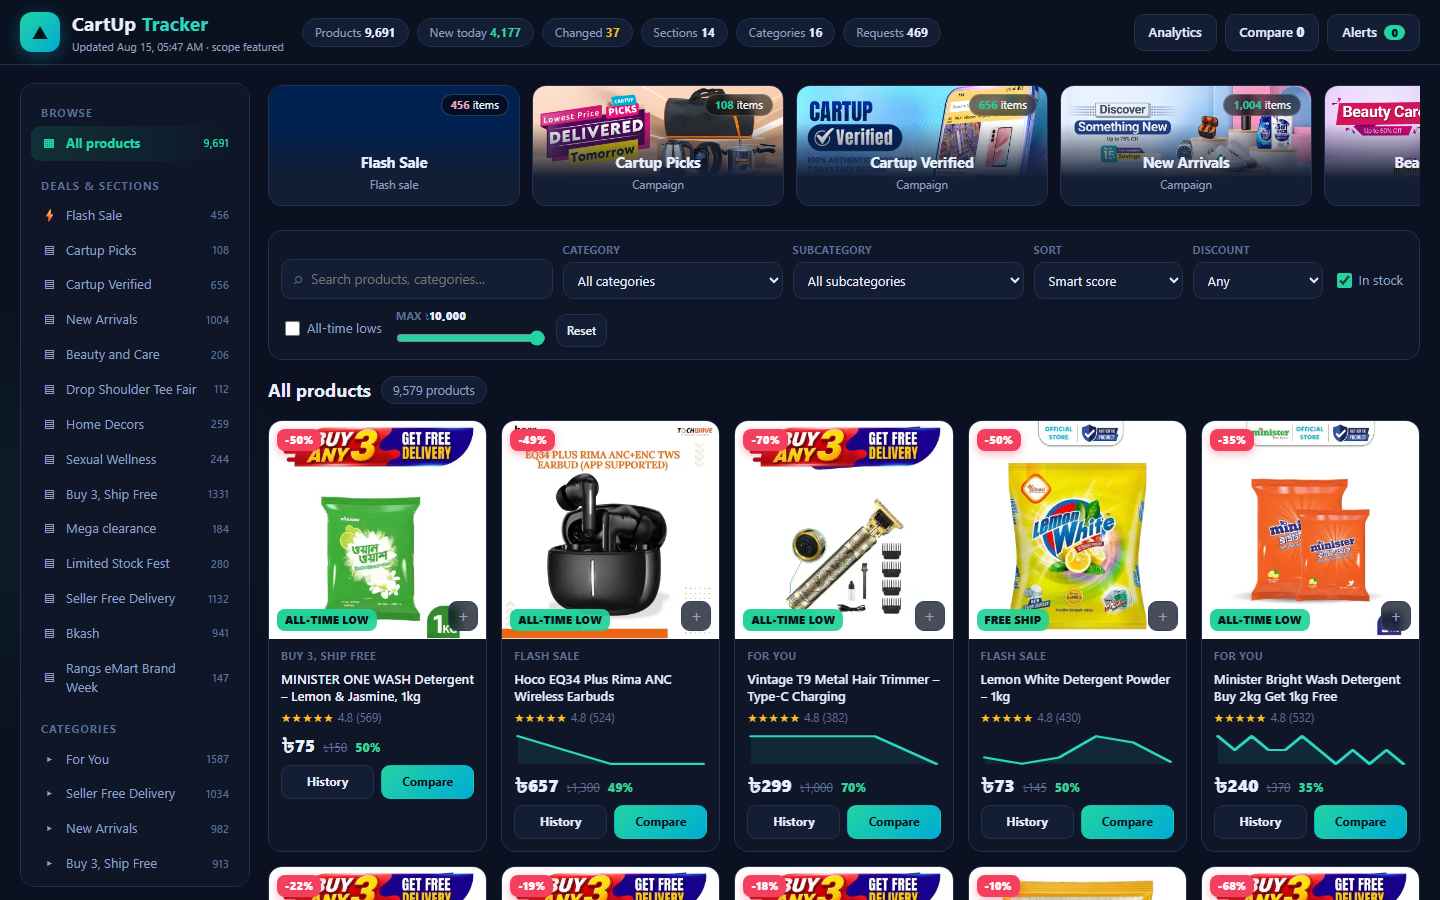
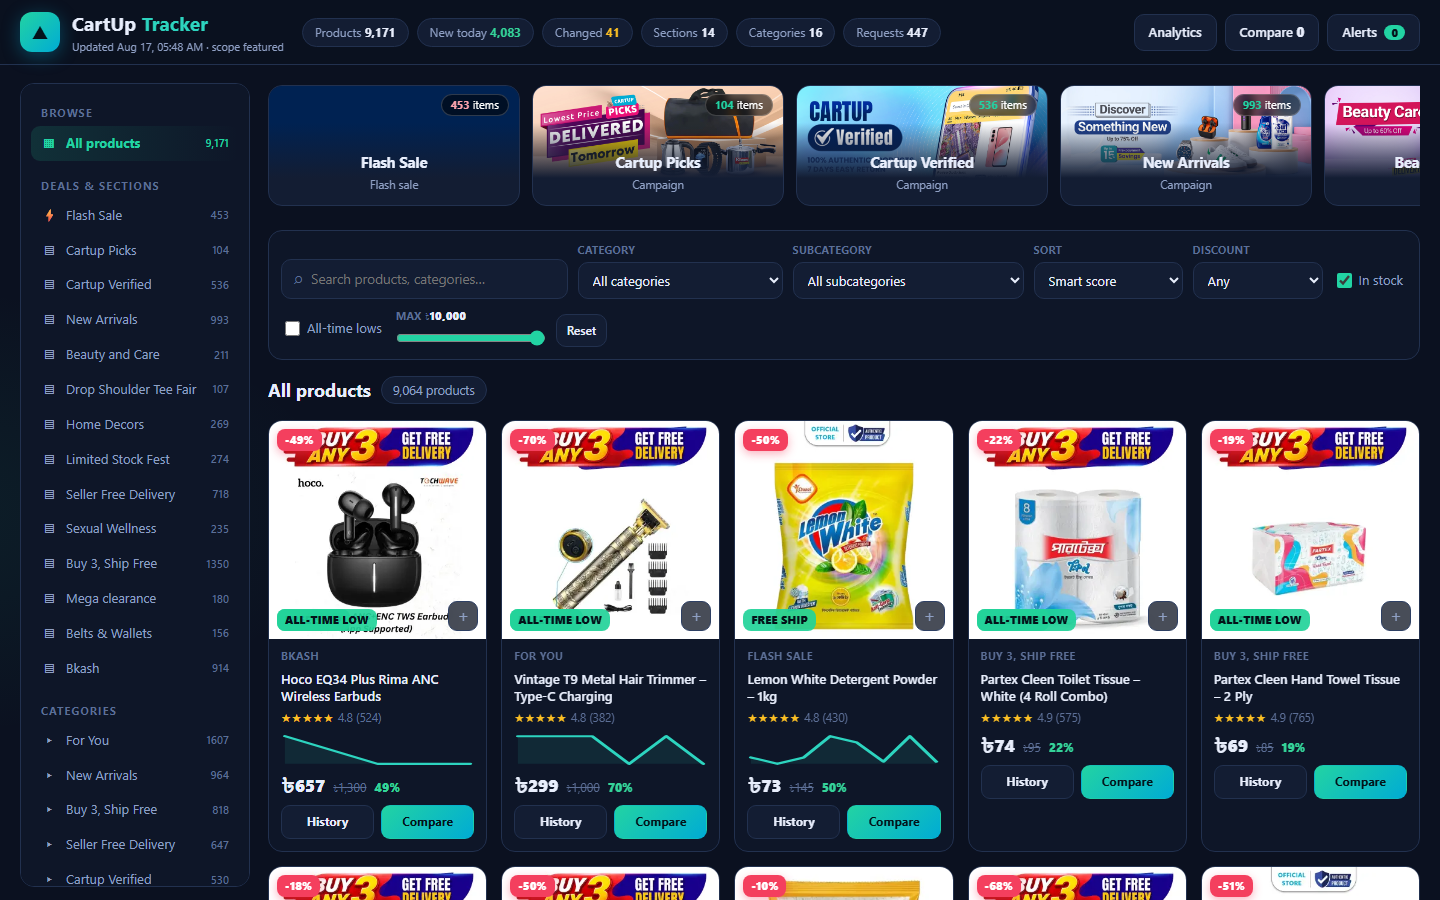
fix: export fresh price history data & add dashboard feature screenshots to README

diff --git a/README.md b/README.md
@@ -1,205 +1,39 @@
-# 🛒 CARTup Analytics & Daily Price Tracker
+# CartUp Analytics — Price Tracker & Intelligence Dashboard
 
-> **Automated, Pure-Python API Scraper, Daily Price Snapshot Pipeline & High-Performance Analytics Dashboard for CartUp Bangladesh.**
-
-[![Live Demo](https://img.shields.io/badge/Live%20Demo-GitHub%20Pages-0099ff?style=for-the-badge&logo=github)](https://ranehal.github.io/CARTup-analytics/)
-[![Python Standard Library](https://img.shields.io/badge/Python-3.9%2B%20(stdlib)-3776AB?style=for-the-badge&logo=python&logoColor=white)](https://www.python.org/)
-[![JavaScript ES6+](https://img.shields.io/badge/JavaScript-ES6%2B-F7DF1E?style=for-the-badge&logo=javascript&logoColor=black)](https://developer.mozilla.org/)
-[![License: MIT](https://img.shields.io/badge/License-MIT-yellow.svg?style=for-the-badge)](LICENSE)
+Real-time price tracker, catalog analyzer, and historical price intelligence dashboard for CartUp Bangladesh.
 
 ---
 
-## 📌 Executive Summary
+## 🌐 Dashboard & Live Preview
 
-**CARTup Analytics** is an end-to-end price monitoring, market analytics, and deal discovery engine engineered for [CartUp Bangladesh](https://www.cartup.com) (`api.cartup.com`). 
-
-The platform reverse-engineers CartUp's mobile app security headers (`sxsrf`), executes concurrent API harvesting without third-party dependencies, logs zero-duplication price history deltas, and renders an interactive web application featuring sparklines, price drop alerts, section cards, and category analytics.
+![Dashboard Preview](screenshots/dashboard.png)
 
 ---
 
-## 🚀 Key Features
+## 📈 Price History & Historical Analytics
 
-- **🔐 Cryptographic Handshake & Auth Derivation**: Implements automatic handling of CartUp's double Base64 `sxsrf` security token derived dynamically from Cloudflare `cf-ray-status-id-tn` response headers.
-- **⚡ Zero-Dependency Scraper Core**: Built strictly using Python standard libraries (`urllib`, `gzip`, `base64`, `json`), requiring zero external `pip` packages.
-- **📈 Efficient Delta Price History**: Appends `YYYY-MM-DD:price` records only when prices change, keeping `data/history.json` lightweight while storing daily snapshots in `data/daily/`.
-- **🌳 Complete Catalog Hierarchy**: Navigates 3 catalog depth levels across 16 top categories, 169 mid-level categories, and 1,232 leaf categories (~600k potential SKUs).
-- **📊 Sparklines & Price Target Alerts**: Dynamic SVG sparklines per card, 30D / 90D / 1Y / All price charts, custom price target alerts saved in `localStorage`, and section strip views (Flash Sales, Mega Offers).
+![Price History & Charts](screenshots/price_history.png)
 
 ---
 
-## 📸 Screenshots
+## 🔍 Features & Interactive Exploration
 
-> Captured from a live localhost run of the dashboard.
-
-| Dashboard |
-| :---: |
-| ![CartUp Analytics Dashboard](screenshots/dashboard.png) |
+![Features & Category View](screenshots/features.png)
 
 ---
 
-## 🏗 System Architecture
+## 🛠 Features & Architecture
 
-```mermaid
-sequenceDiagram
-    autonumber
-    participant Scraper as Python Scraper CLI (scraper.py)
-    participant API as CartUp API (api.cartup.com)
-    participant Storage as Data Store (data/)
-    participant UI as Vanilla JS Dashboard (app.js)
+- **Automated Price Tracking**: Scrapes live catalog prices and logs historical deltas.
+- **Fast Interactive UI**: Clean, responsive frontend with search, filters, and movers panels.
+- **Automated GitHub Pipeline**: Continuous scraping and daily snapshot deployments via GitHub Actions & Kaggle orchestrator.
 
-    Note over Scraper, API: Step 1: Authentication & SXSRF Handshake
-    Scraper->>API: GET / (Unauthenticated Request)
-    API-->>Scraper: HTTP 401 + Header: cf-ray-status-id-tn
-    Scraper->>Scraper: Compute sxsrf = Base64(Base64(cf-ray-status-id-tn))
+## ⚡ Local Run Instructions
 
-    Note over Scraper, API: Step 2: Catalog Ingestion & Harvesting
-    Scraper->>API: POST /api/products (Headers: sxsrf, user-agent: Dart/3.11)
-    API-->>Scraper: 200 OK + Product Catalog JSON
-    
-    Note over Scraper, Storage: Step 3: Delta Price Compression
-    Scraper->>Storage: Append YYYY-MM-DD:price to history.json & write daily/
-    
-    Note over Storage, UI: Step 4: Presentation & Analytics
-    UI->>Storage: Fetch products.json & history.json
-    UI->>UI: Render interactive grid, sparklines, price alerts & analytics
-```
-
----
-
-## 🔑 Authentication & API Specification
-
-The CartUp mobile backend at `api.cartup.com` enforces a challenge-response handshake:
-
-1. **Challenge Phase**: Any unauthenticated request returns `HTTP 401 Unauthorized` with response header `cf-ray-status-id-tn` containing a Base64-encoded JSON payload `{"expires", "sign", "random"}`.
-2. **Signature Computation**: The token must be double Base64-encoded:
-   $$\text{sxsrf} = \text{Base64}\left(\text{Base64}\left(\text{cf-ray-status-id-tn}\right)\right)$$
-3. **Request Verification**: Substituted as header `sxsrf` with custom User-Agent:
-   - `user-agent`: `Dart/3.11 (dart:io)`
-   - `origin`: `cartup-prod`
-   - `isapp`: `1`
-   - `accept-encoding`: `gzip`
-
----
-
-## 📁 Repository Structure
-
-```
-CARTup/
-├── scraper.py           # Pure-Python CLI ingestion engine (urllib, standard library)
-├── index.html           # Single-page web dashboard markup
-├── app.js               # Zero-framework JavaScript SPA (Chart rendering, filtering, alerts)
-├── style.css            # Responsive dark/light mode stylesheet
-├── runall.bat           # Interactive Windows batch launcher
-├── data/
-│   ├── products.json    # Compact product metadata catalog
-│   ├── history.json     # Compressed daily price history map (date:price strings)
-│   ├── meta.json        # Category tree, channel list, and snapshot stats
-│   └── daily/           # Daily delta JSON snapshots (YYYY-MM-DD.json)
-└── .github/workflows/
-    └── daily.yml        # GitHub Actions workflow for automated daily price runs
-```
-
----
-
-## 🛠 Data Schema (`data/products.json`)
-
-| Field Key | Data Type | Description |
-| :--- | :--- | :--- |
-| `i` | `Integer` | Unique CartUp Product ID |
-| `n` | `String` | Product Name |
-| `img` | `String` | Relative S3 image path |
-| `p` | `Number` | Current Discounted Selling Price (৳) |
-| `m` | `Number` | Maximum Retail Price / MRP (৳) |
-| `d` | `Number` | Calculated Discount Percentage |
-| `st` | `Boolean` | In-Stock Availability Status |
-| `c` / `t` / `sc` | `String` | Category path / Top Category / Subcategory |
-
----
-
-## ⚡ Quick Start & Usage
-
-### 1. Interactive Windows Launcher
-Double-click or execute [`runall.bat`](file:///C:/PROJECTS/CARTup/runall.bat):
-```cmd
-runall.bat
-```
-Select:
-- `[1] scraper` — Scrape latest product catalog & update price history.
-- `[2] dashbrd` — Launch local HTTP dashboard server (`http://localhost:3000`).
-- `[3] both` — Execute scraper followed by launching the dashboard server.
-
-### 2. Manual Scraper CLI
 ```bash
-# Scrape featured catalog scope (14 channels, flash deals, mega pages)
-python scraper.py --scope=featured --concurrency=6 --pages=5
+# Run the scraper entry point
+python scraper.py
 
-# Scrape complete catalog across 1,232 leaf categories (~600k SKUs)
-python scraper.py --scope=full
-
-# Serve web dashboard locally
-python -m http.server 3000
+# Serve dashboard locally
+python -m http.server 8000
 ```
-
----
-
-## 🚀 Future Work & Industrial Roadmap
-
-To elevate this platform to an enterprise-grade, production-ready product meeting current industrial standards, the following strategic goals and architecture enhancements are planned:
-
-### 1. 🏗 High-Availability Microservices & Infrastructure
-- **Containerization & Orchestration**: Package ingestion workers, APIs, and dashboards into Docker containers with deployment via **Kubernetes (K8s)** and Helm charts for autoscaling during peak traffic hours.
-- **Distributed Ingestion Workers**: Transition from localized scraping scripts to an asynchronous, fault-tolerant worker pool utilizing **Celery + Redis** or **Temporal.io** with automated proxy rotation, rate-limiting retry strategies, and CAPTCHA bypass capabilities.
-- **High-Performance API Gateway**: Implement an enterprise API Gateway (Kong / Envoy) providing OAuth2 / JWT authentication, TLS termination, and granular rate limiting (Token Bucket algorithm).
-
-### 2. 📊 Enterprise Data Engineering & Streaming Pipelines
-- **Data Lakehouse Architecture**: Store multi-year raw price histories using **Apache Parquet / Delta Lake** or **Google BigQuery** for scalable analytical queries across millions of SKU updates.
-- **Real-Time CDC & Message Streaming**: Integrate **Apache Kafka** or **NATS** for Change Data Capture (CDC) to stream price change events instantly to downstream analytics and notification consumers.
-- **Automated Workflow Orchestration**: Schedule and monitor data ingestion, ETL pipelines, and unit normalization using **Apache Airflow** or **Prefect** integrated with **dbt** for dynamic data transformations.
-
-### 3. 🧠 Machine Learning & Advanced Market Intelligence
-- **Predictive Price Forecasting**: Deploy **Prophet** and **LSTM Neural Networks** to predict future price drops, historical promotion trends, and seasonal discount cycles.
-- **Anomaly & Surge Detection**: Build ML models to identify artificial price hikes before promotional sales, mislabeled unit metrics, and phantom stock availability.
-- **Semantic Product Entity Matching**: Utilize vector embeddings (OpenAI / Sentence-Transformers) paired with **pgvector** / **Pinecone** to match identical SKUs across competitor platforms despite variations in naming formats.
-
-### 4. 🔐 Security, Compliance & System Observability
-- **Zero-Trust Security & RBAC**: Enforce Role-Based Access Control (RBAC), AES-256 GCM payload encryption at rest, and secret rotation via HashiCorp Vault.
-- **Full Observability Stack**: Instrument services with **OpenTelemetry**, emitting distributed traces, Prometheus metrics, and structured logs to **Grafana Loki & Tempo** dashboards.
-- **SLA Alerting & Webhook Engine**: Provide instant trigger notifications via **Telegram Bot API**, **Discord Webhooks**, email notifications, and enterprise SMS gateways when watched items reach target prices.
-
-### 5. 📱 Next-Gen User Experience & Mobile Platforms
-- **Cross-Platform Mobile App**: Develop a dedicated **React Native / Flutter** app featuring push notifications for price drops, barcode scanning in physical stores, and personalized deal watchlists.
-- **Progressive Web App (PWA)**: Upgrade the dashboard to a full PWA with offline caching via Service Workers, dynamic theme switching, and desktop application installability.
-### 1. Architecture & Infrastructure
-- **Containerization & Orchestration**: Package scraper + dashboard as Docker images; deploy with `docker-compose` locally and Kubernetes (EKS/GKE) for horizontal scaling.
-- **Managed Databases**: Migrate from file-based JSON + local SQLite to a managed PostgreSQL (RDS/Cloud SQL) with proper indexing, partitioning (daily/monthly price tables), and connection pooling (PgBouncer).
-- **Message Queue for Ingestion**: Replace naive in-process concurrency with a broker-backed pipeline (Redis Streams / RabbitMQ / Kafka) for retryable, resumable catalog harvesting with dead-letter queues.
-- **Object Storage + CDN**: Store raw daily snapshots in S3/Cloudflare R2 with a CDN (CloudFront/Cloudflare) for static assets and datasets; enforce lifecycle policies for archival.
-- **Caching Layer**: Redis for hot queries (stats, category trees, recent products) with TTL-based invalidation; ETag/If-Modified-Since headers on all API responses.
-
-### 2. Reliability & Observability
-- **Structured Logging & Tracing**: Replace `print`/log files with JSON structured logging (pino/structlog), correlated request IDs, and OpenTelemetry tracing across scraper → queue → DB → API.
-- **Metrics & Alerting**: Prometheus metrics (scrape success rate, latency percentiles, job durations) + Grafana dashboards + PagerDuty/AlertManager alerts on pipeline failure.
-- **SLOs & Health Checks**: `/health`, `/ready` endpoints; scraper watchdog that auto-recovers from stuck sessions; idempotent job resumption from checkpoint state.
-- **Automated Testing**: Unit tests for token derivation, delta compression, and API parsing; integration tests with recorded fixtures; end-to-end Playwright tests for the dashboard.
-
-### 3. Security & Compliance
-- **Secret Management**: Move all credentials into a vault (AWS Secrets Manager / HashiCorp Vault / Doppler) — never baked into images or repos.
-- **Auth & Rate Limiting**: API-key/JWT-based access control with per-tenant rate limiting (e.g., `limits` / Kong); TLS everywhere; dependency scanning (Snyk/Dependabot) and SBOM generation.
-- **Respectful Crawling**: Implement robots.txt compliance, domain-wide polite rate limiting, exponential backoff, and traffic shaping to avoid impacting the upstream service.
-
-### 4. Data Platform & Analytics
-- **Warehouse & BI**: Land normalized datasets into a columnar warehouse (ClickHouse/BigQuery) with dbt for transformations; build Looker/Metabase dashboards.
-- **Streaming Prices**: Migrate daily batch snapshots to near-real-time streaming (Kafka → Flink/Spark Structured Streaming) for live price movement detection.
-- **ML / Forecasting**: Add time-series forecasting (Prophet/ARIMA/LightGBM) for price prediction, anomaly detection on price drops, and personalized deal recommendations.
-
-### 5. Product & UX
-- **User Accounts & Sync**: OAuth2 accounts, cross-device watchlists/alerts, and email/push notifications (SendGrid/FCM) when target prices are hit.
-- **Public API & Docs**: Versioned, documented public REST API (OpenAPI) with rate limits and developer keys; optional GraphQL gateway.
-- **Localization & Accessibility**: Full i18n (bn/en), WCAG 2.1 AA compliance, dark/light theming consistency, and mobile-first responsive PWA with offline mode.
-- **Performance Budget**: Code-splitting, virtualized product lists, lazy-loaded charts, and Lighthouse budgets enforced in CI (CLS < 0.1, LCP < 2.5s).
-
----
-
-## 📜 License & Disclaimer
-
-Distributed under the MIT License. Data and trademarks belong to CartUp. Built for educational and price analytics purposes.
